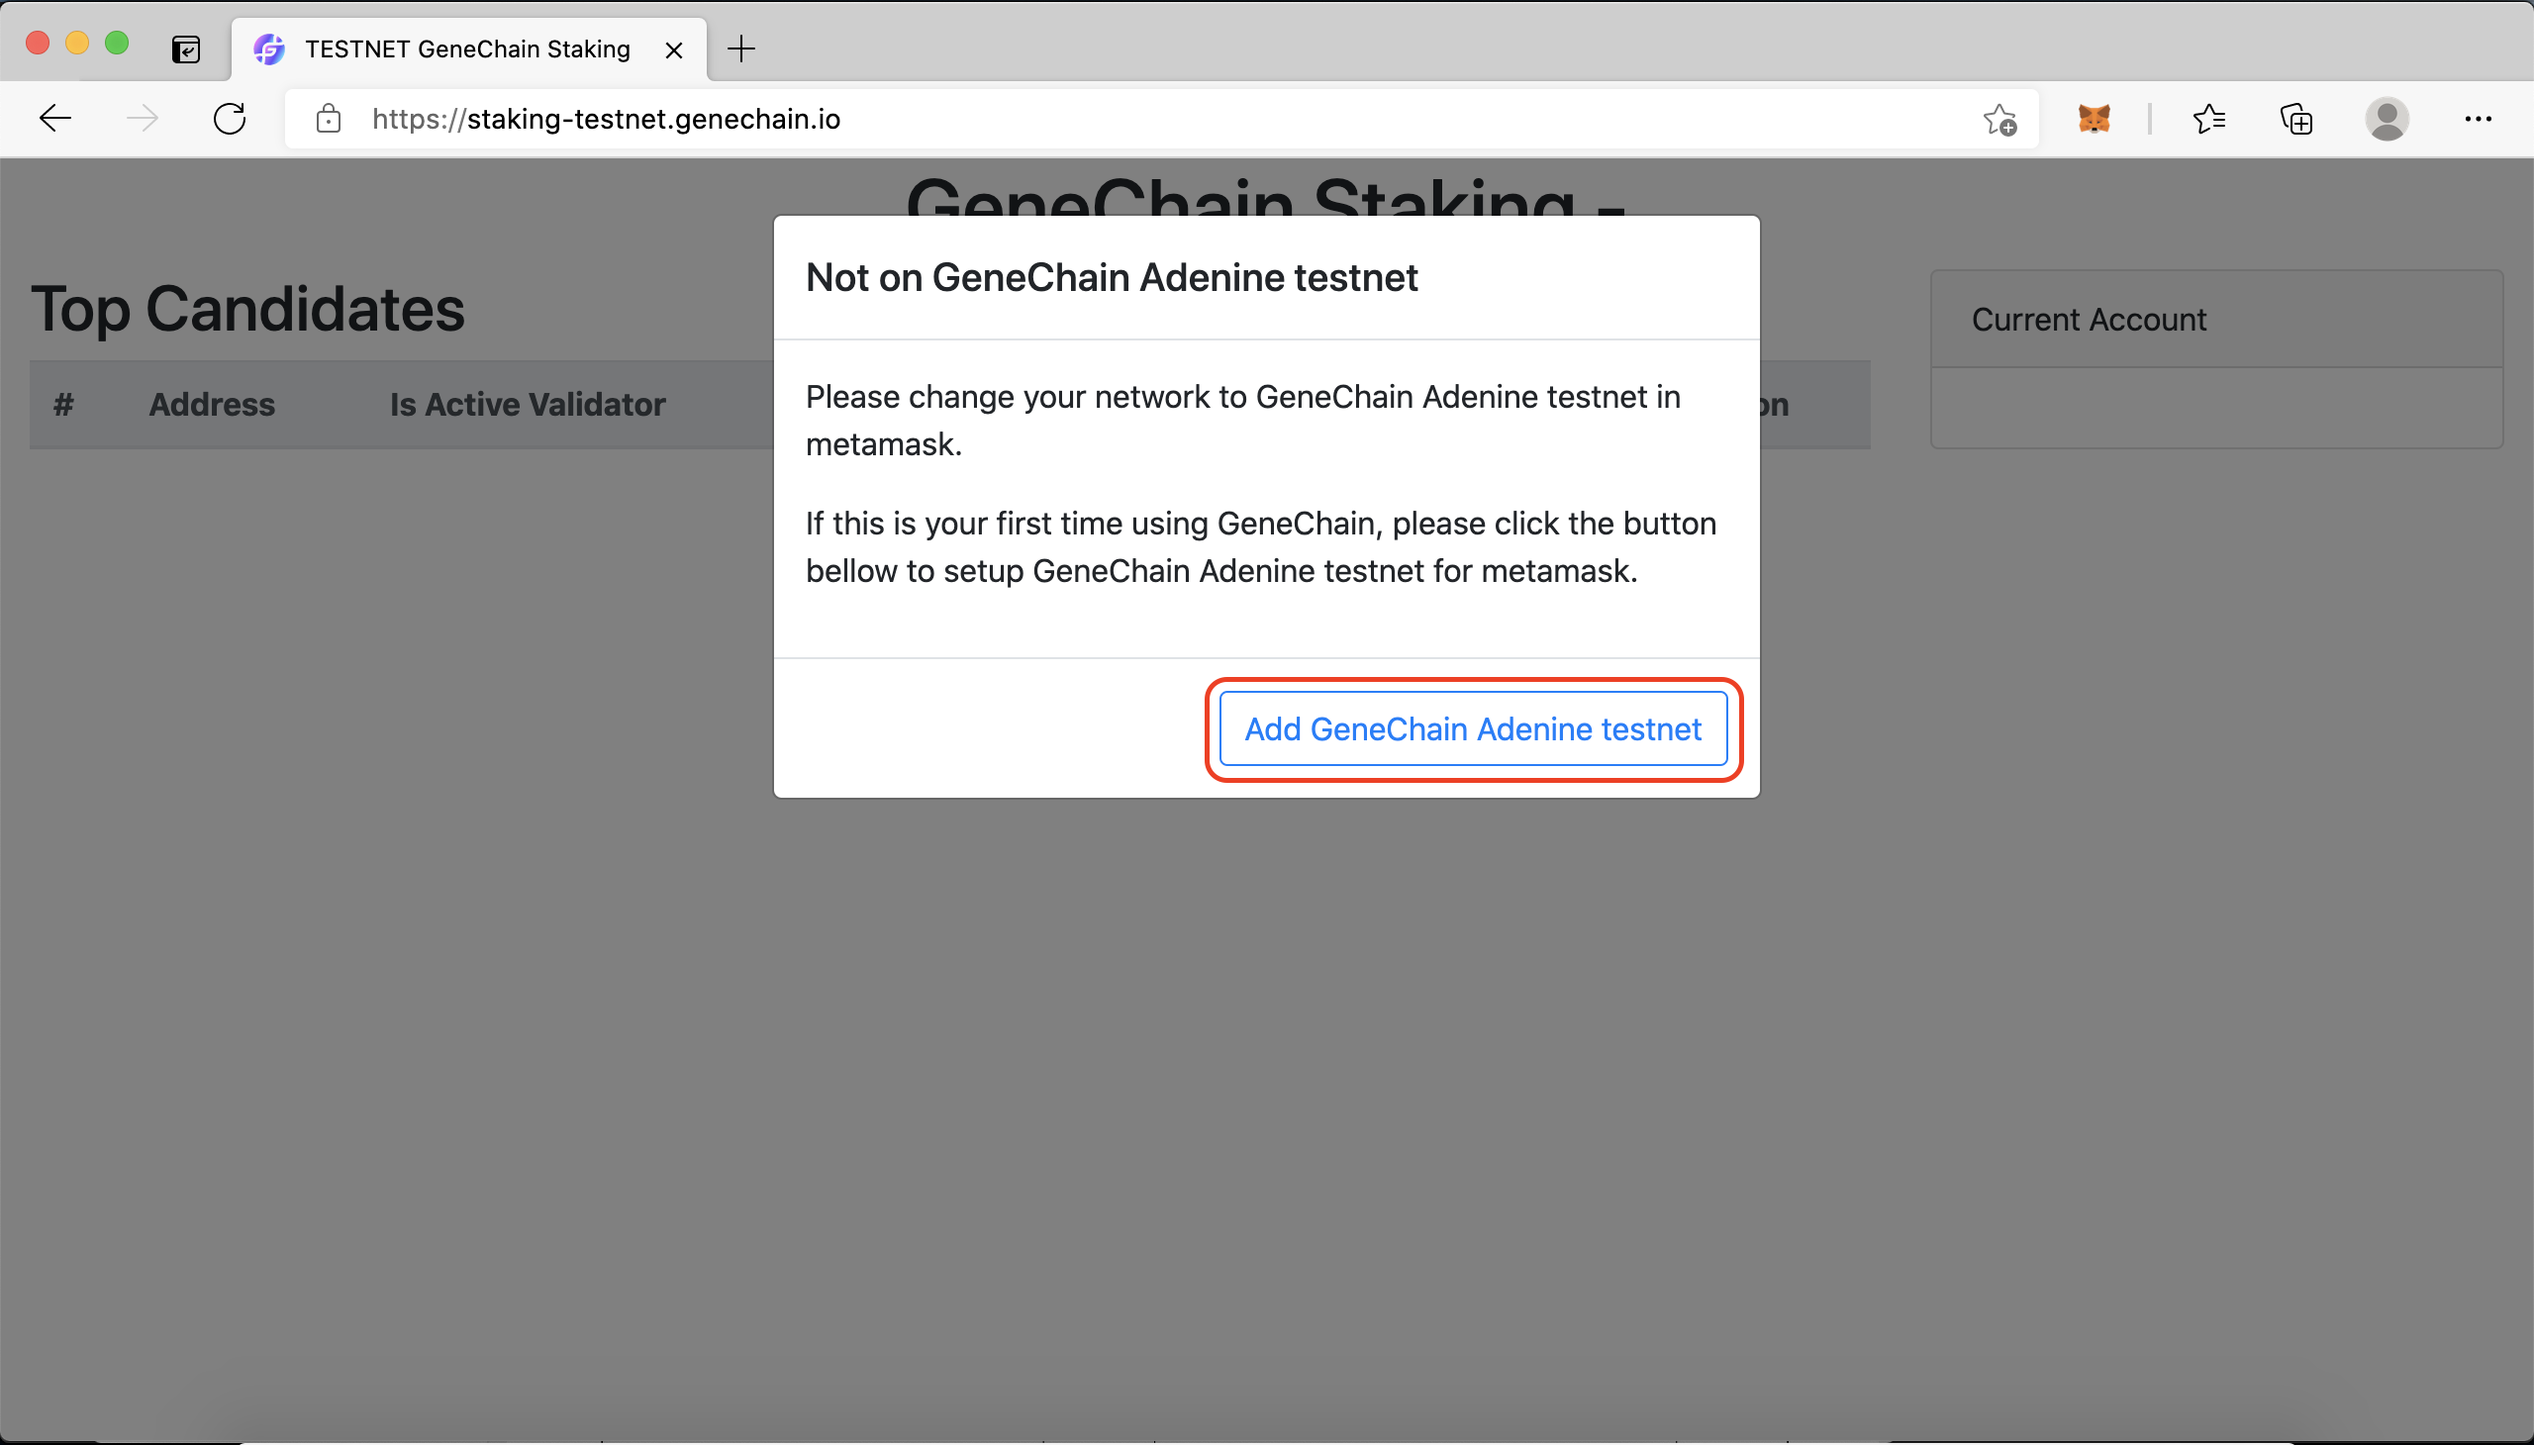
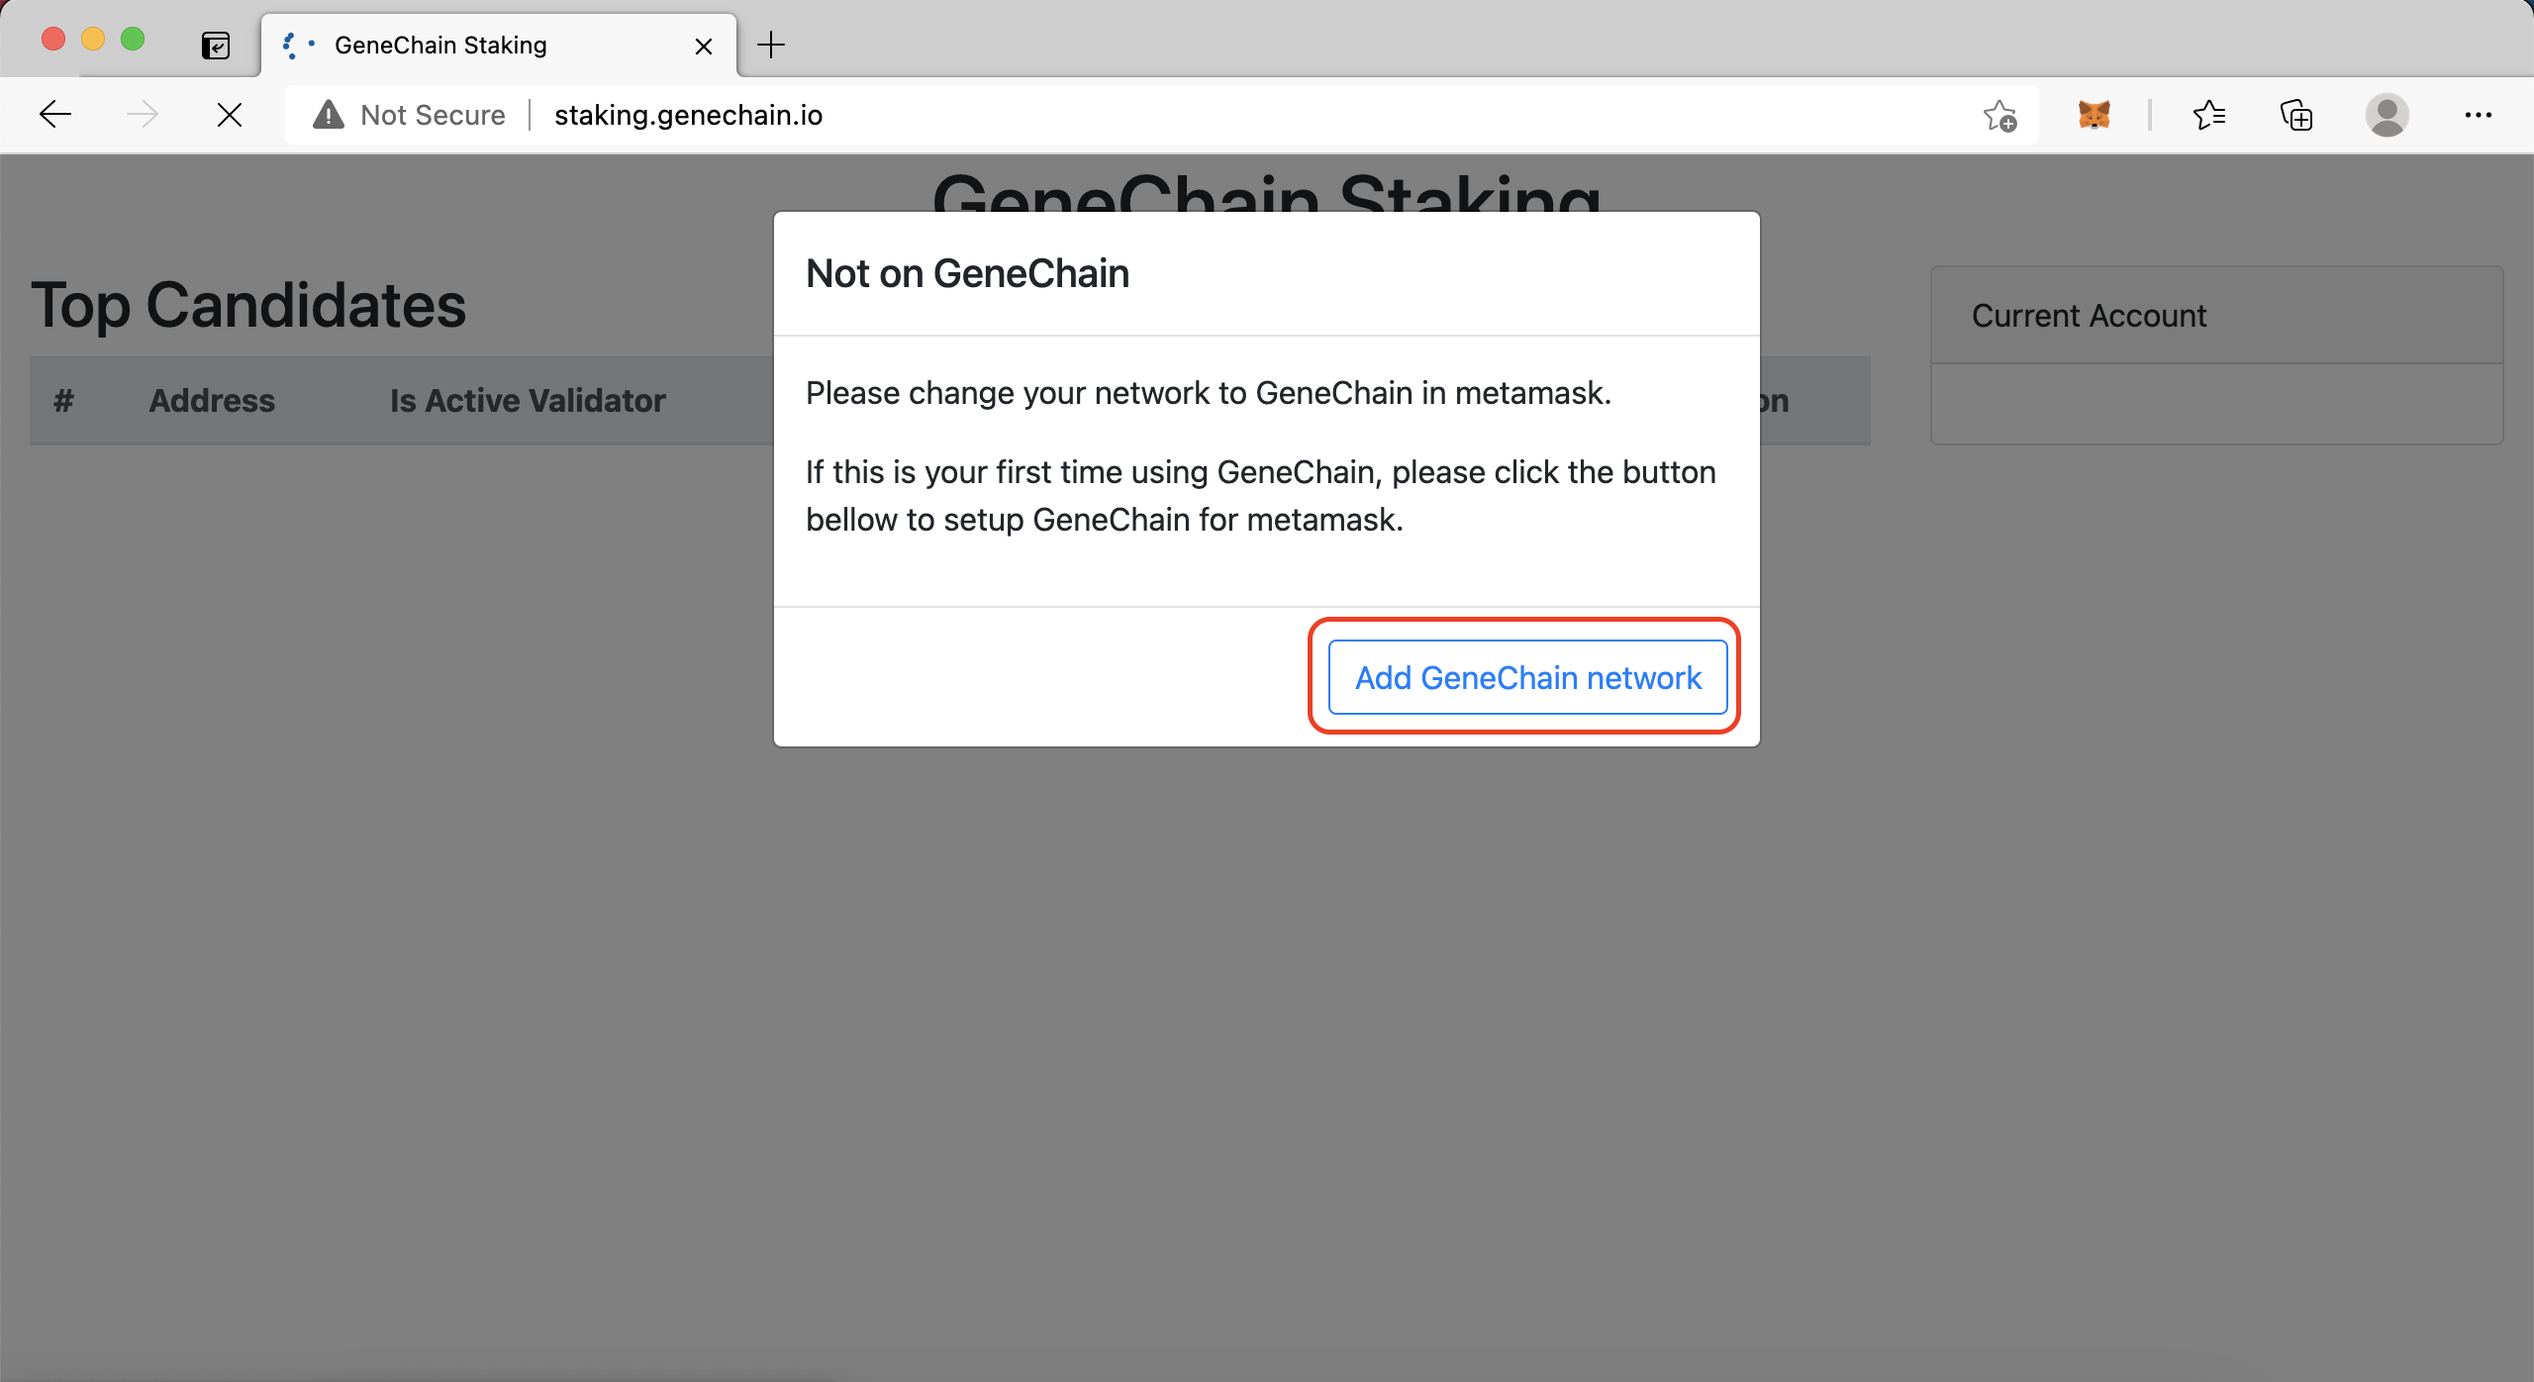
Updates for main genenet

diff --git a/Staking.md b/Staking.md
@@ -1,21 +1,35 @@
+<!-- @import "[TOC]" {cmd="toc" depthFrom=1 depthTo=6 orderedList=false} -->
+**Table of Contents**
+<!-- code_chunk_output -->
+
+- [Ribose Staking HowTo](#ribose-staking-howto)
+  - [Navigate to the staking page](#navigate-to-the-staking-page)
+  - [Authorize the staking page](#authorize-the-staking-page)
+  - [Select a candidate to stake](#select-a-candidate-to-stake)
+  - [Withdraw mining rewards](#withdraw-mining-rewards)
+
+<!-- /code_chunk_output -->
+
 # Ribose Staking HowTo
 Staking can be accomplished by calling the `stake` method of the Ribose system contract. You can find more information in the contract [source code](https://github.com/genechain-io/system-contract/blob/master/contracts/Ribose.sol).
 
-A simpler way is to use the [staking page for Adenine testnet](https://staking-testnet.genechain.io). The staking page for main genenet will be available as soon as main genenet is released.
+A simpler way is to use the [staking page](https://staking.genechain.io). The staking page for Adenine testnet is [here](https://staking-testnet.genechain.io).
 
 Here is a simple guide on how to use the staking page.
 
 ## Navigate to the staking page
-Open the [staking page for Adenine testnet](https://staking-testnet.genechain.io). 
+Open the [staking page](https://staking.genechain.io). 
 
 1. If Metamask is not installed, click the `Click here to install MetaMask` button or follow the steps in [[Metamask]] to install one.  
     <img src="https://raw.githubusercontent.com/wiki/genechain-io/geneth/assets/staking-install-metamask.png" width="500px"/>
 2. If GeneChain Adenine Testnet is not configured, a prompt will be shown. 
-   1. Click the `Add GeneChain Adenine testnet` button to inform MetaMask.  
+   1. Click the `Add GeneChain network` button to inform MetaMask of adding GeneChain network.  
       <img src="https://raw.githubusercontent.com/wiki/genechain-io/geneth/assets/staking-add-network.png" width="500px"/>
-   2. Click `Approve` in MetaMask to approve this action.  
-      <img src="https://raw.githubusercontent.com/wiki/genechain-io/geneth/assets/staking-add-network-approve.png" width="500px"/>
-   3. Click `Switch network` to switch to GeneChain Adenine testnet.  
+   2. Scroll down or click close to show `Approve` button if not shown.  
+      <img src="https://raw.githubusercontent.com/wiki/genechain-io/geneth/assets/staking-add-network-approve1.png" width="500px"/>
+   3. Click `Approve` in MetaMask to approve this action.  
+      <img src="https://raw.githubusercontent.com/wiki/genechain-io/geneth/assets/staking-add-network-approve2.png" width="500px"/>
+   4. Click `Switch network` to switch to GeneChain.  
       <img src="https://raw.githubusercontent.com/wiki/genechain-io/geneth/assets/staking-switch-network.png" width="500px"/>
 
 ## Authorize the staking page

diff --git a/System-Contracts.md b/System-Contracts.md
@@ -2,7 +2,8 @@
 
 GeneChain system contracts are open sourced at https://github.com/genechain-io/system-contract and deployed at the following addresses
 
-| Address                                    | Contract Name | Description                                                                     |
-|--------------------------------------------|---------------|---------------------------------------------------------------------------------|
-| 0x0000000000000000000000000000000000001000 | Ribose        | System contract used by Ribose consensus engine                                 |
-| 0x000000000000000000000000000000000000c000 | ARM           | System token of GeneChain, which can be used to increase ribose staking weight. |
+| Address                                    | Contract Name | Description                                                                               |
+|--------------------------------------------|---------------|-------------------------------------------------------------------------------------------|
+| 0x0000000000000000000000000000000000001000 | Ribose        | System contract used by Ribose consensus engine                                           |
+| 0x000000000000000000000000000000000000c000 | ARM           | System token of GeneChain, which can be used to increase ribose staking weight.           |
+| 0x000000000000000000000000000000000000f000 | Treasury      | This contract locks a specific amount of RNA for develop team, and releases every season. |

diff --git a/Metamask.md b/Metamask.md
@@ -1,3 +1,16 @@
+<!-- @import "[TOC]" {cmd="toc" depthFrom=1 depthTo=6 orderedList=false} -->
+**Table of Contents**
+<!-- code_chunk_output -->
+
+- [How to Setup Metamask For GeneChain](#how-to-setup-metamask-for-genechain)
+  - [Installation](#installation)
+  - [Create Account](#create-account)
+  - [Setup Custom Network for GeneChain](#setup-custom-network-for-genechain)
+    - [Automatic setup](#automatic-setup)
+    - [Manual setup](#manual-setup)
+
+<!-- /code_chunk_output -->
+
 # How to Setup Metamask For GeneChain
 
 Setting up Metamask for GeneChain can be achieved in three steps
@@ -51,12 +64,16 @@ Or, you can follow the following steps to set it up by your self.
    <img src="https://raw.githubusercontent.com/wiki/genechain-io/geneth/assets/custom-rpc.png" width="400px"/>
 2. Fill the blanks with following information.
   * Main Genenet
-    * ***(Coming soon)***
+    * Network Name: GeneChain
+    * New RPC URL: https://rpc.genechain.io
+    * Chain ID: 80
+    * Currency Symbol: RNA
+    * Block Explorer URL: https://scan.genechain.io
   * Adenine Testnet
     * Network Name: GeneChain Adenine Testnet
     * New RPC URL: https://rpc-testnet.genechain.io
     * Chain ID: 8080
-    * Currency Symbol: RNA
+    * Currency Symbol: tRNA
     * Block Explorer URL: https://scan-testnet.genechain.io
 
 Click Save and all are set now!

diff --git a/Validator.md b/Validator.md
@@ -1,3 +1,18 @@
+<!-- @import "[TOC]" {cmd="toc" depthFrom=1 depthTo=6 orderedList=false} -->
+**Table of Contents**
+<!-- code_chunk_output -->
+
+- [Ribose Validator HowTo](#ribose-validator-howto)
+  - [Run a node in mining mode](#run-a-node-in-mining-mode)
+    - [Step 1: Create an account as miner](#step-1-create-an-account-as-miner)
+    - [Step 2: Start a node with mining enabled](#step-2-start-a-node-with-mining-enabled)
+  - [Register as a validator candidate](#register-as-a-validator-candidate)
+  - [Others](#others)
+    - [Set block reward receiver](#set-block-reward-receiver)
+    - [Withdraw miner profits](#withdraw-miner-profits)
+
+<!-- /code_chunk_output -->
+
 # Ribose Validator HowTo
 
 To become a validator, first you need to run a node in mining mode with an account unlocked. Then register this account as a candidate for validators. After registration, you need to earn enough staking power to become an active validator or a top candidate.

diff --git a/Faucet.md b/Faucet.md
@@ -4,6 +4,6 @@
 
 1. Open Metamask, or visit [[Metamask]] and follow the steps to install and setup Metamask if you do not have one yet.
 2. Click your account to copy your account address.  
-   <img src="https://raw.githubusercontent.com/wiki/genechain-io/geneth/assets/copy-address.png" width="400px"/>
+   <img src="https://raw.githubusercontent.com/wiki/genechain-io/geneth/assets/copy-address.png" width="300px"/>
 3. Visit [Faucet](https://faucet.genechain.io) and paste your account address to get testing RNA.  
-   <img src="https://raw.githubusercontent.com/wiki/genechain-io/geneth/assets/faucet.png" width="400px"/>
+   <img src="https://raw.githubusercontent.com/wiki/genechain-io/geneth/assets/faucet.png" width="300px"/>

diff --git a/Fullnode.md b/Fullnode.md
@@ -1,3 +1,18 @@
+<!-- @import "[TOC]" {cmd="toc" depthFrom=1 depthTo=6 orderedList=false} -->
+**Table of Contents**
+<!-- code_chunk_output -->
+
+- [How to Run A Fullnode on GeneChain](#how-to-run-a-fullnode-on-genechain)
+  - [Quick Start](#quick-start)
+    - [Step 1: Build `geneth` from source](#step-1-build-geneth-from-source)
+    - [Step 2: Launch `geneth` to start a full node](#step-2-launch-geneth-to-start-a-full-node)
+    - [Main Genenet](#main-genenet)
+    - [Adenine Testnet](#adenine-testnet)
+  - [Fullnode Benefits](#fullnode-benefits)
+  - [Sync Mode](#sync-mode)
+
+<!-- /code_chunk_output -->
+
 # How to Run A Fullnode on GeneChain
 
 ## Quick Start
